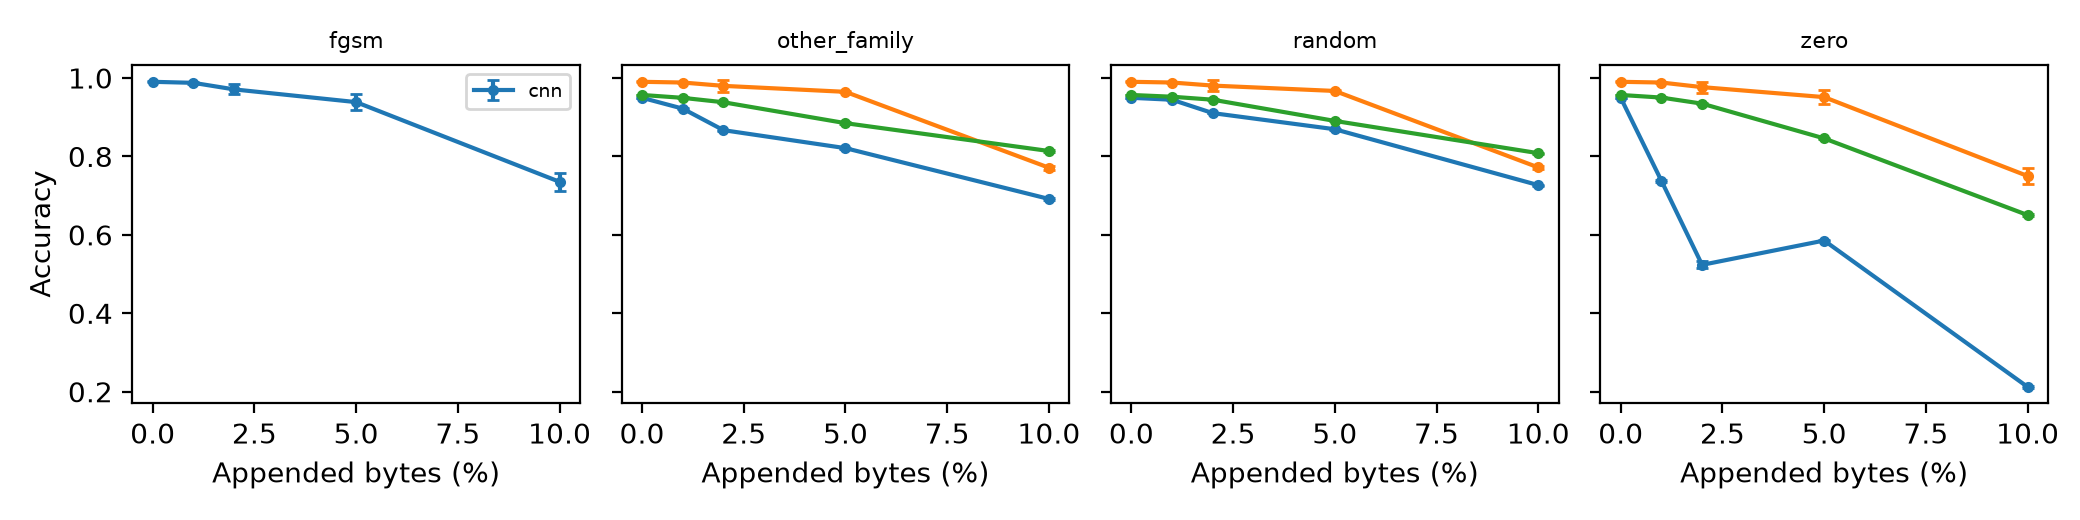
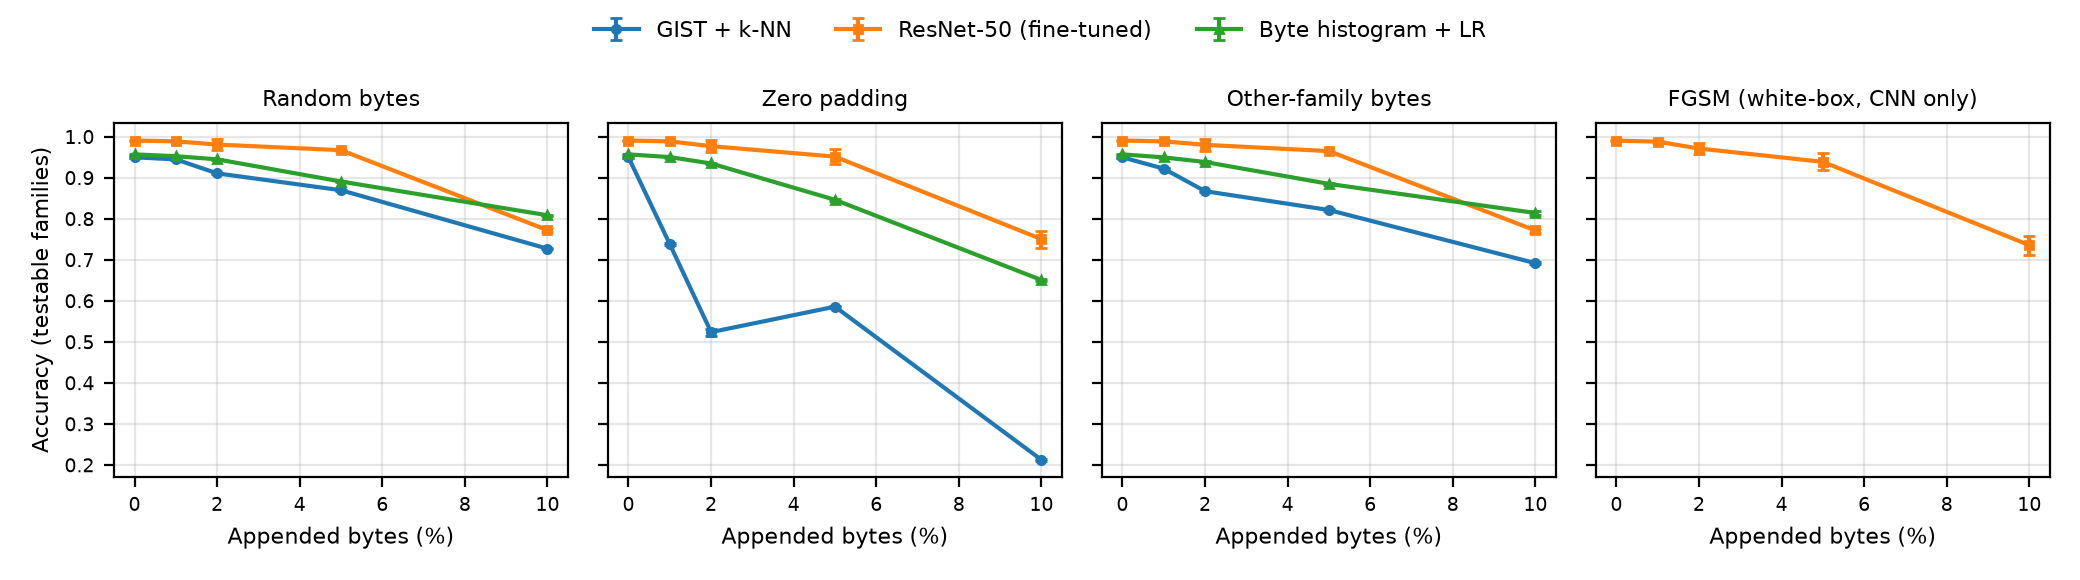
Fig. 1 legend and colours; full-width Table II
save_budget_curves now gives each model a fixed name, colour and marker
and draws one shared legend, so all four panels use the same key (before,
only the FGSM panel had a legend and it listed the CNN alone, coloured
differently from the other panels). Readable panel titles. Figure
regenerated with make reproduce from the committed results; no numbers
changed. Table II (datasets) is now full width instead of shrunk into
one column.

diff --git a/src/evaluate.py b/src/evaluate.py
@@ -72,21 +72,40 @@ def save_confusion_matrix(y_true, y_pred, families, path, title):
     fig.tight_layout(); fig.savefig(path, dpi=200); plt.close(fig)
 
 
+# Fixed name, colour and marker per model, so every panel uses the same key.
+_MODEL_STYLE = {"gist_knn": ("GIST + k-NN", "tab:blue", "o"),
+                "cnn": ("ResNet-50 (fine-tuned)", "tab:orange", "s"),
+                "byte_hist_lr": ("Byte histogram + LR", "tab:green", "^")}
+_ATTACK_TITLE = {"random": "Random bytes", "zero": "Zero padding",
+                 "other_family": "Other-family bytes", "fgsm": "FGSM (white-box, CNN only)"}
+
+
 def save_budget_curves(e4: dict, budgets, path):
-    """e4[model][attack]["accuracy"] = list of {mean, std} per budget."""
-    attacks = sorted({a for m in e4.values() for a in m})
-    fig, axes = plt.subplots(1, len(attacks), figsize=(2.6 * len(attacks), 2.6),
+    """e4[model][attack]["accuracy"] = list of {mean, std} per budget. One panel per
+    attack, a fixed style per model and one shared legend for all panels."""
+    order = ["random", "zero", "other_family", "fgsm"]
+    present = {a for m in e4.values() for a in m}
+    attacks = [a for a in order if a in present] + sorted(present - set(order))
+    fig, axes = plt.subplots(1, len(attacks), figsize=(2.6 * len(attacks), 2.9),
                              sharey=True, squeeze=False)
     x = 100 * np.asarray(budgets)
+    handles = {}
     for ax, atk in zip(axes[0], attacks):
         for model, per_attack in e4.items():
-            if atk in per_attack:
-                acc = per_attack[atk]["accuracy"]
-                ax.errorbar(x, [a["mean"] for a in acc], yerr=[a["std"] for a in acc],
-                            marker="o", ms=3, capsize=2, label=model)
-        ax.set_title(atk, fontsize=8); ax.set_xlabel("Appended bytes (%)")
-    axes[0][0].set_ylabel("Accuracy"); axes[0][0].legend(fontsize=7)
-    fig.tight_layout(); fig.savefig(path, dpi=200); plt.close(fig)
+            if atk not in per_attack:
+                continue
+            name, color, marker = _MODEL_STYLE.get(model, (model, None, "o"))
+            acc = per_attack[atk]["accuracy"]
+            h = ax.errorbar(x, [a["mean"] for a in acc], yerr=[a["std"] for a in acc],
+                            color=color, marker=marker, ms=3, capsize=2, label=name)
+            handles.setdefault(name, h)
+        ax.set_title(_ATTACK_TITLE.get(atk, atk), fontsize=8)
+        ax.set_xlabel("Appended bytes (%)", fontsize=8)
+        ax.tick_params(labelsize=7); ax.grid(alpha=0.3)
+    axes[0][0].set_ylabel("Accuracy (testable families)", fontsize=8)
+    fig.legend(handles.values(), handles.keys(), loc="upper center",
+               ncol=len(handles), fontsize=8, frameon=False)
+    fig.tight_layout(rect=(0, 0, 1, 0.9)); fig.savefig(path, dpi=200); plt.close(fig)
 
 
 def save_nn_distance_hist(dists, threshold, path, feature):

diff --git a/report/main.tex b/report/main.tex
@@ -272,11 +272,11 @@ per family with seed 620, keeping all 42 Simda samples (2,042 samples; the list 
 committed to the repository). One Ramnit sample consists only of \texttt{??} bytes and
 is excluded, leaving 2,041. Table~\ref{tab:datasets} summarizes both datasets.
 
-\begin{table}[t]
+\begin{table*}[t]
 \centering
 \caption{Datasets as used in this work.}
 \label{tab:datasets}
-\resizebox{\columnwidth}{!}{%
+\small
 \begin{tabular}{lll}
 \toprule
  & Malimg \cite{nataraj2011images} & BIG 2015 \cite{ronen2018big2015} \\
@@ -290,8 +290,8 @@ Rendering & none (as shipped) & width table of \cite{nataraj2011images}; \texttt
 Sampling & all & $\le$250 per family (seed 620); all 42 Simda \\
 Used in & E1, E2, E4 & E3 \\
 \bottomrule
-\end{tabular}}
-\end{table}
+\end{tabular}
+\end{table*}
 
 \subsection{Deduplication and Splits}
 \textbf{Exact duplicates.} We hash each image's pixels with SHA-256.
